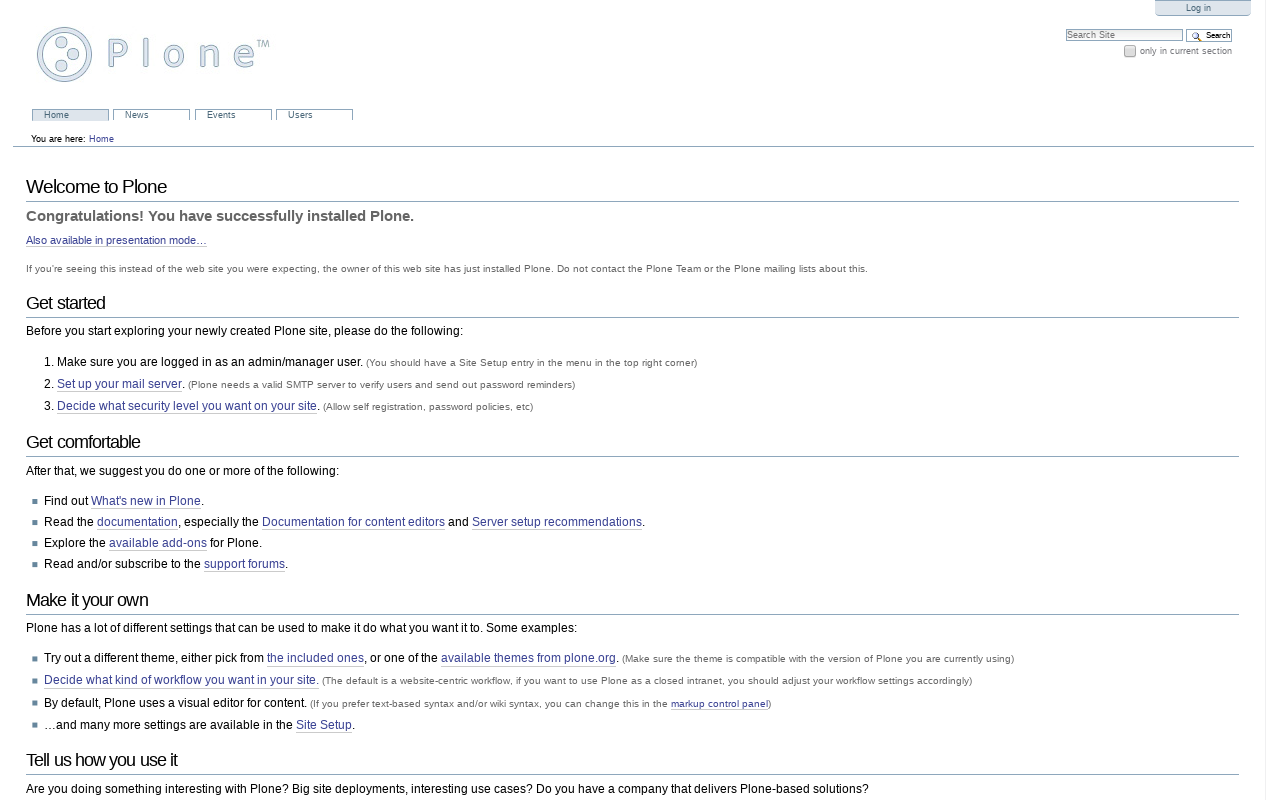
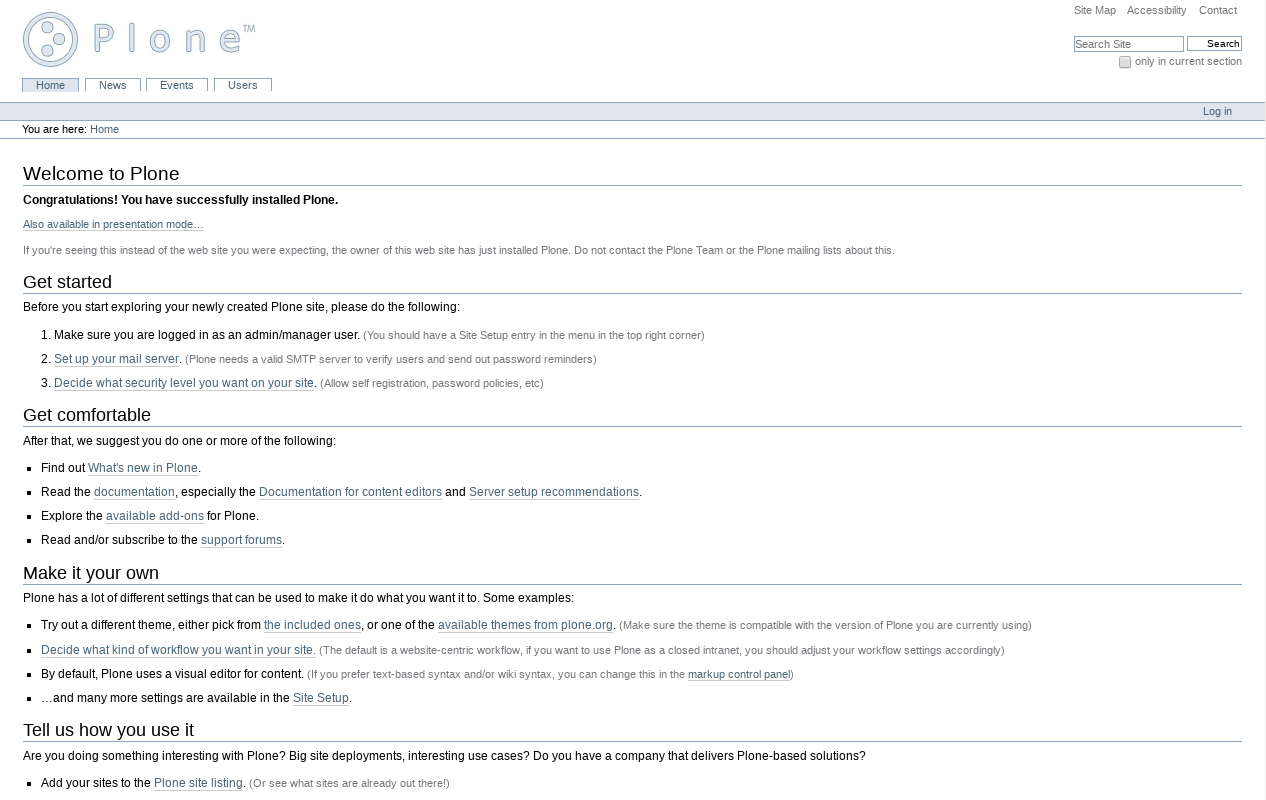
Revert some CSS changes for Plone Classic Theme

Changed region(s): [[0.0, 0.0, 1.0, 1.0], [0.8318, 0.0, 0.9858, 0.0938]]

diff --git a/diazoframework/plone/framework/classic/css/style.css b/diazoframework/plone/framework/classic/css/style.css
@@ -528,7 +528,7 @@
     text-align: right;
     padding-top: 5px;
     margin: 0;
-    /*left: 3px;*/
+    left: 3px;
     z-index: 3;
   }
 
@@ -1695,7 +1695,7 @@
 
   /*** begin ECMAScript Content Action Menus */
   .contentActions {
-    /*background-color: #cde2a7;*/
+    background-color: #cde2a7;
     border-left: 1px solid #74ae0b;
     border-right: 1px solid #74ae0b;
     color: #578308;

diff --git a/diazoframework/plone/framework/classic/css/public.css b/diazoframework/plone/framework/classic/css/public.css
@@ -321,7 +321,7 @@ form.searchPage h1.documentFirstHeading .highlightedSearchTerm {
 }
 
 .LSResult {
-  /*position: relative;*/
+  position: relative;
   display: block;
   text-align: right;
   padding-top: 5px;
